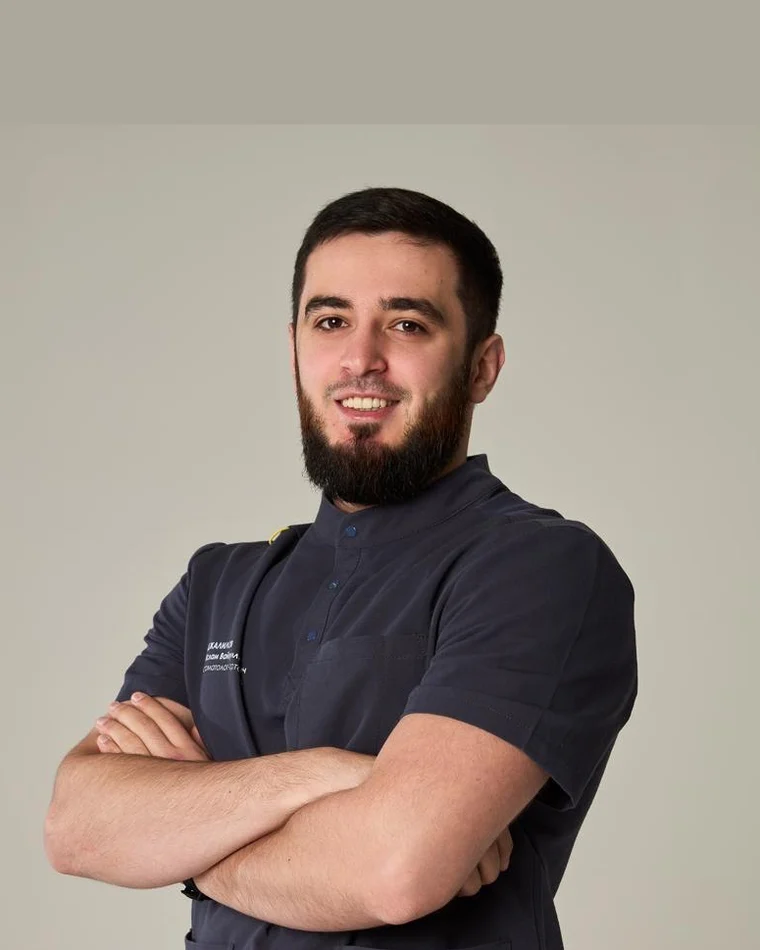
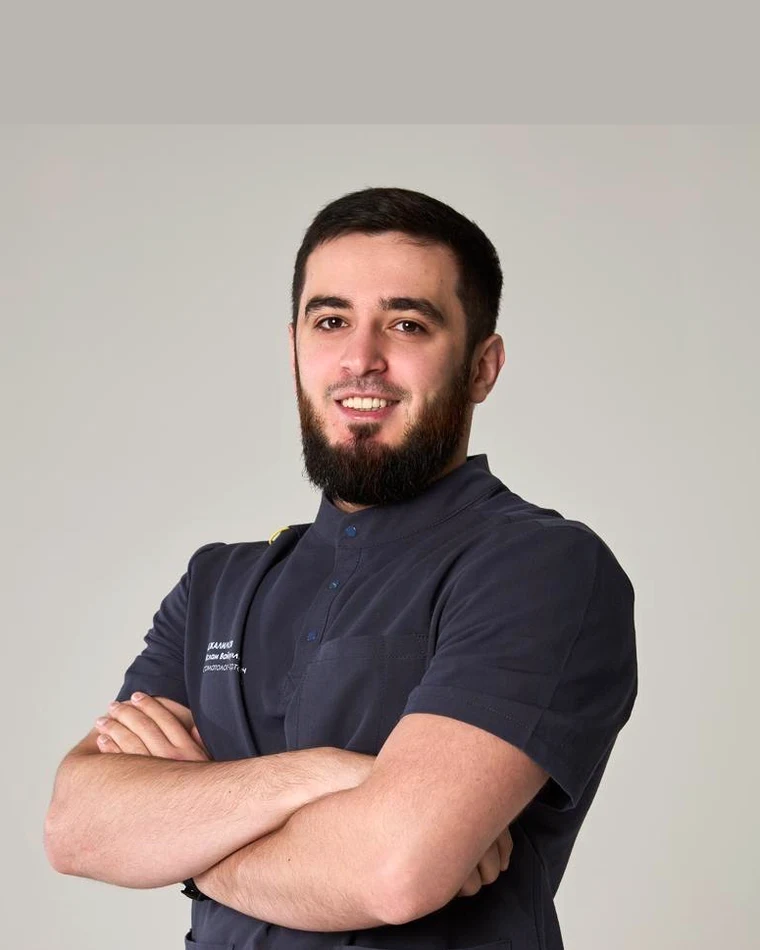
[FKLDSJ-065] Починил растянутое фото на странице врача и выровнял фон

diff --git a/final/index.html b/final/index.html
@@ -259,7 +259,7 @@
     <p class="closing-lead">Собираем консилиум для сложных случаев: специализируемся на имплантации при патологиях челюсти и минимальном объёме кости.</p>
 
     <div class="closing-chief">
-      <div class="closing-photo"><img src="../assets/doctors/berlov.webp?v=2" alt="Берлов Антон Владимирович" loading="lazy"></div>
+      <div class="closing-photo"><img src="../assets/doctors/berlov.webp?v=3" alt="Берлов Антон Владимирович" loading="lazy"></div>
       <div>
         <span class="closing-eyebrow">Главный врач сети · стоматолог‑ортопед</span>
         <h3>Берлов Антон Владимирович</h3>
@@ -278,14 +278,14 @@
     <div class="closing-slider" data-doc-slider>
       <button class="closing-nav closing-nav--prev" type="button" aria-label="Предыдущие врачи" disabled><svg viewBox="0 0 24 24" aria-hidden="true"><path d="M15 5l-7 7 7 7" fill="none" stroke="currentColor" stroke-width="2.2" stroke-linecap="round" stroke-linejoin="round"/></svg></button>
       <div class="closing-track">
-        <a class="closing-doc" href="vrachi/tsahaev/"><div class="closing-photo"><img src="../assets/doctors/tsahaev.webp?v=2" alt="Цахаев Марат Халилович" loading="lazy"></div><h3>Цахаев Марат Халилович</h3><small>Стоматолог‑хирург‑имплантолог · стаж 11 лет</small><p>Имплантация All‑on‑4, хирургический этап, сложные случаи.</p><span class="closing-doc-more">Подробнее о враче ›</span></a>
-        <a class="closing-doc" href="vrachi/arslanbekov/"><div class="closing-photo"><img src="../assets/doctors/arslanbekov.webp?v=2" alt="Арсланбеков Айдемир Бийсолтанович" loading="lazy"></div><h3>Арсланбеков Айдемир Бийсолтанович</h3><small>Стоматолог‑хирург‑имплантолог · стаж 6 лет</small><p>Имплантация зубов, хирургический этап All‑on‑4.</p><span class="closing-doc-more">Подробнее о враче ›</span></a>
-        <a class="closing-doc" href="vrachi/bayzurkaev/"><div class="closing-photo"><img src="../assets/doctors/bayzurkaev.webp?v=2" alt="Байзуркаев Абдула Шамсутдинович" loading="lazy"></div><h3>Байзуркаев Абдула Шамсутдинович</h3><small>Стоматолог‑ортопед · стаж 12 лет</small><p>Протезирование на имплантах, несъёмные конструкции.</p><span class="closing-doc-more">Подробнее о враче ›</span></a>
-        <a class="closing-doc" href="vrachi/kulikov/"><div class="closing-photo"><img src="../assets/doctors/kulikov.webp?v=2" alt="Куликов Алексей Андреевич" loading="lazy"></div><h3>Куликов Алексей Андреевич</h3><small>Стоматолог‑ортопед · стаж 17 лет</small><p>Протезирование, коронки и несъёмные конструкции.</p><span class="closing-doc-more">Подробнее о враче ›</span></a>
-        <a class="closing-doc" href="vrachi/dzhanumova/"><div class="closing-photo"><img src="../assets/doctors/dzhanumova.webp?v=2" alt="Джанумова Валерия Александровна" loading="lazy"></div><h3>Джанумова Валерия Александровна</h3><small>Стоматолог‑ортопед · стаж 9 лет</small><p>Протезирование, коронки, реставрация и лечение зубов.</p><span class="closing-doc-more">Подробнее о враче ›</span></a>
-        <a class="closing-doc" href="vrachi/dzhalilov/"><div class="closing-photo"><img src="../assets/doctors/dzhalilov.webp?v=2" alt="Джалилов Ислам Вайзуллаевич" loading="lazy"></div><h3>Джалилов Ислам Вайзуллаевич</h3><small>Стоматолог‑ортопед · стаж 7 лет</small><p>Протезирование на имплантах, коронки и виниры.</p><span class="closing-doc-more">Подробнее о враче ›</span></a>
-        <a class="closing-doc" href="vrachi/muradov/"><div class="closing-photo"><img src="../assets/doctors/muradov.webp?v=2" alt="Мурадов Эмин Акифович" loading="lazy"></div><h3>Мурадов Эмин Акифович</h3><small>Стоматолог‑терапевт · стаж 6 лет</small><p>Лечение зубов и подготовка к имплантации.</p><span class="closing-doc-more">Подробнее о враче ›</span></a>
-        <a class="closing-doc" href="vrachi/mahmudova/"><div class="closing-photo"><img src="../assets/doctors/mahmudova.webp?v=2" alt="Махмудова Иман Дзаиндиевна" loading="lazy"></div><h3>Махмудова Иман Дзаиндиевна</h3><small>Стоматолог‑терапевт · стаж 4 года</small><p>Терапия, гигиена и подготовка к протезированию.</p><span class="closing-doc-more">Подробнее о враче ›</span></a>
+        <a class="closing-doc" href="vrachi/tsahaev/"><div class="closing-photo"><img src="../assets/doctors/tsahaev.webp?v=3" alt="Цахаев Марат Халилович" loading="lazy"></div><h3>Цахаев Марат Халилович</h3><small>Стоматолог‑хирург‑имплантолог · стаж 11 лет</small><p>Имплантация All‑on‑4, хирургический этап, сложные случаи.</p><span class="closing-doc-more">Подробнее о враче ›</span></a>
+        <a class="closing-doc" href="vrachi/arslanbekov/"><div class="closing-photo"><img src="../assets/doctors/arslanbekov.webp?v=3" alt="Арсланбеков Айдемир Бийсолтанович" loading="lazy"></div><h3>Арсланбеков Айдемир Бийсолтанович</h3><small>Стоматолог‑хирург‑имплантолог · стаж 6 лет</small><p>Имплантация зубов, хирургический этап All‑on‑4.</p><span class="closing-doc-more">Подробнее о враче ›</span></a>
+        <a class="closing-doc" href="vrachi/bayzurkaev/"><div class="closing-photo"><img src="../assets/doctors/bayzurkaev.webp?v=3" alt="Байзуркаев Абдула Шамсутдинович" loading="lazy"></div><h3>Байзуркаев Абдула Шамсутдинович</h3><small>Стоматолог‑ортопед · стаж 12 лет</small><p>Протезирование на имплантах, несъёмные конструкции.</p><span class="closing-doc-more">Подробнее о враче ›</span></a>
+        <a class="closing-doc" href="vrachi/kulikov/"><div class="closing-photo"><img src="../assets/doctors/kulikov.webp?v=3" alt="Куликов Алексей Андреевич" loading="lazy"></div><h3>Куликов Алексей Андреевич</h3><small>Стоматолог‑ортопед · стаж 17 лет</small><p>Протезирование, коронки и несъёмные конструкции.</p><span class="closing-doc-more">Подробнее о враче ›</span></a>
+        <a class="closing-doc" href="vrachi/dzhanumova/"><div class="closing-photo"><img src="../assets/doctors/dzhanumova.webp?v=3" alt="Джанумова Валерия Александровна" loading="lazy"></div><h3>Джанумова Валерия Александровна</h3><small>Стоматолог‑ортопед · стаж 9 лет</small><p>Протезирование, коронки, реставрация и лечение зубов.</p><span class="closing-doc-more">Подробнее о враче ›</span></a>
+        <a class="closing-doc" href="vrachi/dzhalilov/"><div class="closing-photo"><img src="../assets/doctors/dzhalilov.webp?v=3" alt="Джалилов Ислам Вайзуллаевич" loading="lazy"></div><h3>Джалилов Ислам Вайзуллаевич</h3><small>Стоматолог‑ортопед · стаж 7 лет</small><p>Протезирование на имплантах, коронки и виниры.</p><span class="closing-doc-more">Подробнее о враче ›</span></a>
+        <a class="closing-doc" href="vrachi/muradov/"><div class="closing-photo"><img src="../assets/doctors/muradov.webp?v=3" alt="Мурадов Эмин Акифович" loading="lazy"></div><h3>Мурадов Эмин Акифович</h3><small>Стоматолог‑терапевт · стаж 6 лет</small><p>Лечение зубов и подготовка к имплантации.</p><span class="closing-doc-more">Подробнее о враче ›</span></a>
+        <a class="closing-doc" href="vrachi/mahmudova/"><div class="closing-photo"><img src="../assets/doctors/mahmudova.webp?v=3" alt="Махмудова Иман Дзаиндиевна" loading="lazy"></div><h3>Махмудова Иман Дзаиндиевна</h3><small>Стоматолог‑терапевт · стаж 4 года</small><p>Терапия, гигиена и подготовка к протезированию.</p><span class="closing-doc-more">Подробнее о враче ›</span></a>
       </div>
       <button class="closing-nav closing-nav--next" type="button" aria-label="Следующие врачи"><svg viewBox="0 0 24 24" aria-hidden="true"><path d="M9 5l7 7-7 7" fill="none" stroke="currentColor" stroke-width="2.2" stroke-linecap="round" stroke-linejoin="round"/></svg></button>
     </div>

diff --git a/final/mobile.js b/final/mobile.js
@@ -77,16 +77,16 @@
       { img: A + 'land/vitaliy-before.jpg', tag: 'До', cap: 'Виталий', sub: 'Атрофия костной ткани' },
       { img: A + 'land/vitaliy-after.jpg', tag: 'После', cap: 'Nobel по 3D-шаблону', sub: 'Протез с армирующей балкой' },
     ] },
-    { id: 'doctors', title: 'Врачи', cover: A + 'doctors/berlov.webp?v=2', fit: true, doctors: true, slides: [
-      { img: A + 'doctors/berlov.webp?v=2', cap: 'Берлов Антон Владимирович', sub: 'Главный врач сети, д. м. н., профессор · стаж более 30 лет' },
-      { img: A + 'doctors/tsahaev.webp?v=2', cap: 'Цахаев Марат Халилович', sub: 'Стоматолог-хирург-имплантолог · стаж 11 лет' },
-      { img: A + 'doctors/arslanbekov.webp?v=2', cap: 'Арсланбеков Айдемир Бийсолтанович', sub: 'Стоматолог-хирург-имплантолог · стаж 6 лет' },
-      { img: A + 'doctors/bayzurkaev.webp?v=2', cap: 'Байзуркаев Абдула Шамсутдинович', sub: 'Стоматолог-ортопед · стаж 12 лет' },
-      { img: A + 'doctors/kulikov.webp?v=2', cap: 'Куликов Алексей Андреевич', sub: 'Стоматолог-ортопед · стаж 17 лет' },
-      { img: A + 'doctors/dzhanumova.webp?v=2', cap: 'Джанумова Валерия Александровна', sub: 'Стоматолог-ортопед · стаж 9 лет' },
-      { img: A + 'doctors/dzhalilov.webp?v=2', cap: 'Джалилов Ислам Вайзуллаевич', sub: 'Стоматолог-ортопед · стаж 7 лет' },
-      { img: A + 'doctors/muradov.webp?v=2', cap: 'Мурадов Эмин Акифович', sub: 'Стоматолог-терапевт · стаж 6 лет' },
-      { img: A + 'doctors/mahmudova.webp?v=2', cap: 'Махмудова Иман Дзаиндиевна', sub: 'Стоматолог-терапевт · стаж 4 года' },
+    { id: 'doctors', title: 'Врачи', cover: A + 'doctors/berlov.webp?v=3', fit: true, doctors: true, slides: [
+      { img: A + 'doctors/berlov.webp?v=3', cap: 'Берлов Антон Владимирович', sub: 'Главный врач сети, д. м. н., профессор · стаж более 30 лет' },
+      { img: A + 'doctors/tsahaev.webp?v=3', cap: 'Цахаев Марат Халилович', sub: 'Стоматолог-хирург-имплантолог · стаж 11 лет' },
+      { img: A + 'doctors/arslanbekov.webp?v=3', cap: 'Арсланбеков Айдемир Бийсолтанович', sub: 'Стоматолог-хирург-имплантолог · стаж 6 лет' },
+      { img: A + 'doctors/bayzurkaev.webp?v=3', cap: 'Байзуркаев Абдула Шамсутдинович', sub: 'Стоматолог-ортопед · стаж 12 лет' },
+      { img: A + 'doctors/kulikov.webp?v=3', cap: 'Куликов Алексей Андреевич', sub: 'Стоматолог-ортопед · стаж 17 лет' },
+      { img: A + 'doctors/dzhanumova.webp?v=3', cap: 'Джанумова Валерия Александровна', sub: 'Стоматолог-ортопед · стаж 9 лет' },
+      { img: A + 'doctors/dzhalilov.webp?v=3', cap: 'Джалилов Ислам Вайзуллаевич', sub: 'Стоматолог-ортопед · стаж 7 лет' },
+      { img: A + 'doctors/muradov.webp?v=3', cap: 'Мурадов Эмин Акифович', sub: 'Стоматолог-терапевт · стаж 6 лет' },
+      { img: A + 'doctors/mahmudova.webp?v=3', cap: 'Махмудова Иман Дзаиндиевна', sub: 'Стоматолог-терапевт · стаж 4 года' },
     ] },
     { id: 'clinic', title: 'Клиника', cover: A + 'stories/clinic-entrance.webp', slides: [
       { img: A + 'stories/clinic-entrance.webp', cap: 'Вход с улицы, 1 этаж', sub: 'Ленинградский проспект, 36, стр. 40' },

diff --git a/final/vrachi/vrachi.css b/final/vrachi/vrachi.css
@@ -1,5 +1,10 @@
-/* Страницы отдельных врачей */
-:root{--doc-max:1160px}
+/* Страницы отдельных врачей — самодостаточный стиль, без общего CSS сайта */
+:root{
+ --ui:'Nunito','Onest',system-ui,-apple-system,'Segoe UI',sans-serif;
+ --ink:#2e2e35; --muted:#5f5d68; --pink:#e93d8d; --paper:#f4f3f7;
+ --lavender:#b9a7ea; --violet:#5e5391; --line:#e3e0eb; --doc-max:1160px;
+}
+*{box-sizing:border-box}
 body.doc-page{margin:0;background:#fff;color:var(--ink);font-family:var(--ui);-webkit-font-smoothing:antialiased}
 .doc-wrap{max-width:var(--doc-max);margin:0 auto;padding:0 24px}
 
@@ -23,7 +28,7 @@ body.doc-page{margin:0;background:#fff;color:var(--ink);font-family:var(--ui);-w
 /* герой */
 .doc-hero{display:grid;grid-template-columns:420px minmax(0,1fr);gap:48px;padding:26px 0 40px;align-items:start}
 .doc-photo{position:sticky;top:90px;border-radius:22px;overflow:hidden;background:var(--paper)}
-.doc-photo img{display:block;width:100%;aspect-ratio:4/5;object-fit:cover;object-position:center top}
+.doc-photo img{display:block;width:100%;height:auto}
 .doc-info{padding-top:4px}
 .doc-eyebrow{color:var(--pink);text-transform:uppercase;letter-spacing:.06em;font:600 13px var(--ui)}
 .doc-info h1{font:600 clamp(30px,3.4vw,46px)/1.12 var(--ui);letter-spacing:-.03em;color:var(--ink);margin:10px 0 18px}
@@ -59,8 +64,7 @@ body.doc-page{margin:0;background:#fff;color:var(--ink);font-family:var(--ui);-w
 
 @media(max-width:900px){
  .doc-hero{grid-template-columns:1fr;gap:24px;padding:18px 0 30px}
- .doc-photo{position:static;max-width:360px}
- .doc-photo img{aspect-ratio:1}
+ .doc-photo{position:static;max-width:340px;margin:0 auto}
 }
 @media(max-width:560px){
  .doc-wrap,.doc-topbar-in,.doc-foot-in{padding-left:16px;padding-right:16px}

diff --git a/final/vrachi/arslanbekov/index.html b/final/vrachi/arslanbekov/index.html
@@ -8,8 +8,6 @@
 <link rel="preconnect" href="https://fonts.googleapis.com">
 <link rel="preconnect" href="https://fonts.gstatic.com" crossorigin>
 <link href="https://fonts.googleapis.com/css2?family=Nunito:wght@400;500;600;700&family=Onest:wght@300;400;500;600&display=swap" rel="stylesheet">
-<link rel="stylesheet" href="../../style.css">
-<link rel="stylesheet" href="../../design.css">
 <link rel="stylesheet" href="../vrachi.css">
 </head>
 <body class="doc-page">
@@ -23,7 +21,7 @@
 <main class="doc-wrap" id="doctor">
  <nav class="doc-crumbs" aria-label="Хлебные крошки"><a href="../../">Главная</a> / <a href="../../#closing-team">Врачи</a> / <span>Арсланбеков Айдемир Бийсолтанович</span></nav>
  <div class="doc-hero">
-  <figure class="doc-photo"><img src="../../../assets/doctors/arslanbekov.webp?v=2" alt="Арсланбеков Айдемир Бийсолтанович" width="760" height="950"></figure>
+  <figure class="doc-photo"><img src="../../../assets/doctors/arslanbekov.webp?v=3" alt="Арсланбеков Айдемир Бийсолтанович" width="760" height="950"></figure>
   <div class="doc-info">
    <div class="doc-eyebrow">СТОМАТОЛОГ-ХИРУРГ-ИМПЛАНТОЛОГ</div>
    <h1>Арсланбеков Айдемир Бийсолтанович</h1>

diff --git a/final/vrachi/bayzurkaev/index.html b/final/vrachi/bayzurkaev/index.html
@@ -8,8 +8,6 @@
 <link rel="preconnect" href="https://fonts.googleapis.com">
 <link rel="preconnect" href="https://fonts.gstatic.com" crossorigin>
 <link href="https://fonts.googleapis.com/css2?family=Nunito:wght@400;500;600;700&family=Onest:wght@300;400;500;600&display=swap" rel="stylesheet">
-<link rel="stylesheet" href="../../style.css">
-<link rel="stylesheet" href="../../design.css">
 <link rel="stylesheet" href="../vrachi.css">
 </head>
 <body class="doc-page">
@@ -23,7 +21,7 @@
 <main class="doc-wrap" id="doctor">
  <nav class="doc-crumbs" aria-label="Хлебные крошки"><a href="../../">Главная</a> / <a href="../../#closing-team">Врачи</a> / <span>Байзуркаев Абдула Шамсутдинович</span></nav>
  <div class="doc-hero">
-  <figure class="doc-photo"><img src="../../../assets/doctors/bayzurkaev.webp?v=2" alt="Байзуркаев Абдула Шамсутдинович" width="760" height="950"></figure>
+  <figure class="doc-photo"><img src="../../../assets/doctors/bayzurkaev.webp?v=3" alt="Байзуркаев Абдула Шамсутдинович" width="760" height="950"></figure>
   <div class="doc-info">
    <div class="doc-eyebrow">СТОМАТОЛОГ-ОРТОПЕД</div>
    <h1>Байзуркаев Абдула Шамсутдинович</h1>

diff --git a/final/vrachi/dzhanumova/index.html b/final/vrachi/dzhanumova/index.html
@@ -8,8 +8,6 @@
 <link rel="preconnect" href="https://fonts.googleapis.com">
 <link rel="preconnect" href="https://fonts.gstatic.com" crossorigin>
 <link href="https://fonts.googleapis.com/css2?family=Nunito:wght@400;500;600;700&family=Onest:wght@300;400;500;600&display=swap" rel="stylesheet">
-<link rel="stylesheet" href="../../style.css">
-<link rel="stylesheet" href="../../design.css">
 <link rel="stylesheet" href="../vrachi.css">
 </head>
 <body class="doc-page">
@@ -23,7 +21,7 @@
 <main class="doc-wrap" id="doctor">
  <nav class="doc-crumbs" aria-label="Хлебные крошки"><a href="../../">Главная</a> / <a href="../../#closing-team">Врачи</a> / <span>Джанумова Валерия Александровна</span></nav>
  <div class="doc-hero">
-  <figure class="doc-photo"><img src="../../../assets/doctors/dzhanumova.webp?v=2" alt="Джанумова Валерия Александровна" width="760" height="950"></figure>
+  <figure class="doc-photo"><img src="../../../assets/doctors/dzhanumova.webp?v=3" alt="Джанумова Валерия Александровна" width="760" height="950"></figure>
   <div class="doc-info">
    <div class="doc-eyebrow">СТОМАТОЛОГ-ОРТОПЕД</div>
    <h1>Джанумова Валерия Александровна</h1>

diff --git a/final/vrachi/berlov/index.html b/final/vrachi/berlov/index.html
@@ -8,8 +8,6 @@
 <link rel="preconnect" href="https://fonts.googleapis.com">
 <link rel="preconnect" href="https://fonts.gstatic.com" crossorigin>
 <link href="https://fonts.googleapis.com/css2?family=Nunito:wght@400;500;600;700&family=Onest:wght@300;400;500;600&display=swap" rel="stylesheet">
-<link rel="stylesheet" href="../../style.css">
-<link rel="stylesheet" href="../../design.css">
 <link rel="stylesheet" href="../vrachi.css">
 </head>
 <body class="doc-page">
@@ -23,7 +21,7 @@
 <main class="doc-wrap" id="doctor">
  <nav class="doc-crumbs" aria-label="Хлебные крошки"><a href="../../">Главная</a> / <a href="../../#closing-team">Врачи</a> / <span>Берлов Антон Владимирович</span></nav>
  <div class="doc-hero">
-  <figure class="doc-photo"><img src="../../../assets/doctors/berlov.webp?v=2" alt="Берлов Антон Владимирович" width="760" height="950"></figure>
+  <figure class="doc-photo"><img src="../../../assets/doctors/berlov.webp?v=3" alt="Берлов Антон Владимирович" width="760" height="950"></figure>
   <div class="doc-info">
    <div class="doc-eyebrow">ГЛАВНЫЙ ВРАЧ СЕТИ, Д. М. Н., ПРОФЕССОР</div>
    <h1>Берлов Антон Владимирович</h1>

diff --git a/final/vrachi/dzhalilov/index.html b/final/vrachi/dzhalilov/index.html
@@ -8,8 +8,6 @@
 <link rel="preconnect" href="https://fonts.googleapis.com">
 <link rel="preconnect" href="https://fonts.gstatic.com" crossorigin>
 <link href="https://fonts.googleapis.com/css2?family=Nunito:wght@400;500;600;700&family=Onest:wght@300;400;500;600&display=swap" rel="stylesheet">
-<link rel="stylesheet" href="../../style.css">
-<link rel="stylesheet" href="../../design.css">
 <link rel="stylesheet" href="../vrachi.css">
 </head>
 <body class="doc-page">
@@ -23,7 +21,7 @@
 <main class="doc-wrap" id="doctor">
  <nav class="doc-crumbs" aria-label="Хлебные крошки"><a href="../../">Главная</a> / <a href="../../#closing-team">Врачи</a> / <span>Джалилов Ислам Вайзуллаевич</span></nav>
  <div class="doc-hero">
-  <figure class="doc-photo"><img src="../../../assets/doctors/dzhalilov.webp?v=2" alt="Джалилов Ислам Вайзуллаевич" width="760" height="950"></figure>
+  <figure class="doc-photo"><img src="../../../assets/doctors/dzhalilov.webp?v=3" alt="Джалилов Ислам Вайзуллаевич" width="760" height="950"></figure>
   <div class="doc-info">
    <div class="doc-eyebrow">СТОМАТОЛОГ-ОРТОПЕД</div>
    <h1>Джалилов Ислам Вайзуллаевич</h1>

diff --git a/final/vrachi/mahmudova/index.html b/final/vrachi/mahmudova/index.html
@@ -8,8 +8,6 @@
 <link rel="preconnect" href="https://fonts.googleapis.com">
 <link rel="preconnect" href="https://fonts.gstatic.com" crossorigin>
 <link href="https://fonts.googleapis.com/css2?family=Nunito:wght@400;500;600;700&family=Onest:wght@300;400;500;600&display=swap" rel="stylesheet">
-<link rel="stylesheet" href="../../style.css">
-<link rel="stylesheet" href="../../design.css">
 <link rel="stylesheet" href="../vrachi.css">
 </head>
 <body class="doc-page">
@@ -23,7 +21,7 @@
 <main class="doc-wrap" id="doctor">
  <nav class="doc-crumbs" aria-label="Хлебные крошки"><a href="../../">Главная</a> / <a href="../../#closing-team">Врачи</a> / <span>Махмудова Иман Дзаиндиевна</span></nav>
  <div class="doc-hero">
-  <figure class="doc-photo"><img src="../../../assets/doctors/mahmudova.webp?v=2" alt="Махмудова Иман Дзаиндиевна" width="760" height="950"></figure>
+  <figure class="doc-photo"><img src="../../../assets/doctors/mahmudova.webp?v=3" alt="Махмудова Иман Дзаиндиевна" width="760" height="950"></figure>
   <div class="doc-info">
    <div class="doc-eyebrow">СТОМАТОЛОГ-ТЕРАПЕВТ</div>
    <h1>Махмудова Иман Дзаиндиевна</h1>

diff --git a/final/vrachi/kulikov/index.html b/final/vrachi/kulikov/index.html
@@ -8,8 +8,6 @@
 <link rel="preconnect" href="https://fonts.googleapis.com">
 <link rel="preconnect" href="https://fonts.gstatic.com" crossorigin>
 <link href="https://fonts.googleapis.com/css2?family=Nunito:wght@400;500;600;700&family=Onest:wght@300;400;500;600&display=swap" rel="stylesheet">
-<link rel="stylesheet" href="../../style.css">
-<link rel="stylesheet" href="../../design.css">
 <link rel="stylesheet" href="../vrachi.css">
 </head>
 <body class="doc-page">
@@ -23,7 +21,7 @@
 <main class="doc-wrap" id="doctor">
  <nav class="doc-crumbs" aria-label="Хлебные крошки"><a href="../../">Главная</a> / <a href="../../#closing-team">Врачи</a> / <span>Куликов Алексей Андреевич</span></nav>
  <div class="doc-hero">
-  <figure class="doc-photo"><img src="../../../assets/doctors/kulikov.webp?v=2" alt="Куликов Алексей Андреевич" width="760" height="950"></figure>
+  <figure class="doc-photo"><img src="../../../assets/doctors/kulikov.webp?v=3" alt="Куликов Алексей Андреевич" width="760" height="950"></figure>
   <div class="doc-info">
    <div class="doc-eyebrow">СТОМАТОЛОГ-ОРТОПЕД</div>
    <h1>Куликов Алексей Андреевич</h1>

diff --git a/final/vrachi/tsahaev/index.html b/final/vrachi/tsahaev/index.html
@@ -8,8 +8,6 @@
 <link rel="preconnect" href="https://fonts.googleapis.com">
 <link rel="preconnect" href="https://fonts.gstatic.com" crossorigin>
 <link href="https://fonts.googleapis.com/css2?family=Nunito:wght@400;500;600;700&family=Onest:wght@300;400;500;600&display=swap" rel="stylesheet">
-<link rel="stylesheet" href="../../style.css">
-<link rel="stylesheet" href="../../design.css">
 <link rel="stylesheet" href="../vrachi.css">
 </head>
 <body class="doc-page">
@@ -23,7 +21,7 @@
 <main class="doc-wrap" id="doctor">
  <nav class="doc-crumbs" aria-label="Хлебные крошки"><a href="../../">Главная</a> / <a href="../../#closing-team">Врачи</a> / <span>Цахаев Марат Халилович</span></nav>
  <div class="doc-hero">
-  <figure class="doc-photo"><img src="../../../assets/doctors/tsahaev.webp?v=2" alt="Цахаев Марат Халилович" width="760" height="950"></figure>
+  <figure class="doc-photo"><img src="../../../assets/doctors/tsahaev.webp?v=3" alt="Цахаев Марат Халилович" width="760" height="950"></figure>
   <div class="doc-info">
    <div class="doc-eyebrow">СТОМАТОЛОГ-ХИРУРГ-ИМПЛАНТОЛОГ</div>
    <h1>Цахаев Марат Халилович</h1>

diff --git a/final/vrachi/muradov/index.html b/final/vrachi/muradov/index.html
@@ -8,8 +8,6 @@
 <link rel="preconnect" href="https://fonts.googleapis.com">
 <link rel="preconnect" href="https://fonts.gstatic.com" crossorigin>
 <link href="https://fonts.googleapis.com/css2?family=Nunito:wght@400;500;600;700&family=Onest:wght@300;400;500;600&display=swap" rel="stylesheet">
-<link rel="stylesheet" href="../../style.css">
-<link rel="stylesheet" href="../../design.css">
 <link rel="stylesheet" href="../vrachi.css">
 </head>
 <body class="doc-page">
@@ -23,7 +21,7 @@
 <main class="doc-wrap" id="doctor">
  <nav class="doc-crumbs" aria-label="Хлебные крошки"><a href="../../">Главная</a> / <a href="../../#closing-team">Врачи</a> / <span>Мурадов Эмин Акифович</span></nav>
  <div class="doc-hero">
-  <figure class="doc-photo"><img src="../../../assets/doctors/muradov.webp?v=2" alt="Мурадов Эмин Акифович" width="760" height="950"></figure>
+  <figure class="doc-photo"><img src="../../../assets/doctors/muradov.webp?v=3" alt="Мурадов Эмин Акифович" width="760" height="950"></figure>
   <div class="doc-info">
    <div class="doc-eyebrow">СТОМАТОЛОГ-ТЕРАПЕВТ</div>
    <h1>Мурадов Эмин Акифович</h1>
